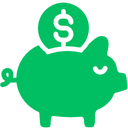
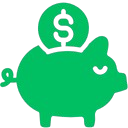
feat(home): enhance idle and loading states with animations and improved layout feat(login): update text to Bulgarian for better localization refactor(product-recommendation): adjust card width for responsive design chore(images): update icon128 and icon48 images

diff --git a/src/app/home/home.component.html b/src/app/home/home.component.html
@@ -1,21 +1,48 @@
-<div class="space-y-4">
-  <div *ngIf="stage === 'idle'" class="space-y-4">
-    <h2 class="text-lg font-semibold text-gray-700">Izgodno.bg</h2>
-    <p class="text-sm text-gray-600">Увери се, че си на страницата на продукт и натисни бутона по-долу, за да намерим най-добрите оферти!</p>
-    <button class="btn btn-primary w-full" (click)="startRecommendationFlow()">Намери оферти</button>
-  </div>
+<!-- ✅ IDLE & LOADING - Centered Layout -->
+<div *ngIf="stage === 'idle' || stage === 'loading'" class="w-full h-full flex items-center justify-center px-4 py-4">
+  <div class="space-y-4 w-full max-w-sm">
 
-  <div *ngIf="stage === 'loading'" class="flex flex-col items-center space-y-2">
-    <span class="loading loading-spinner loading-lg text-primary"></span>
-    <div class="text-sm text-center text-gray-600">
-      <p>Търсим най-добрите оферти...</p>
-      <p>Почти готово...</p>
+    <!-- IDLE STATE -->
+    <div *ngIf="stage === 'idle'" class="card shadow-lg bg-base-100 p-6 space-y-4 animate-fade-in text-center">
+      <div class="flex justify-center">
+        <img src="images/icon128.png" alt="Izgodno Logo" class="w-20 h-20 mb-2 rounded-xl shadow-md" />
+      </div>
+      <h2 class="text-xl font-bold text-primary">Izgodno.bg</h2>
+      <p class="text-sm text-gray-600">
+        Увери се, че си на страницата на продукт и натисни бутона по-долу, за да намерим най-добрите оферти!
+      </p>
+      <button class="btn btn-primary w-full gap-2" (click)="startRecommendationFlow()">
+        <svg xmlns="http://www.w3.org/2000/svg" class="h-5 w-5" fill="none"
+             viewBox="0 0 24 24" stroke="currentColor" stroke-width="2">
+          <path stroke-linecap="round" stroke-linejoin="round"
+                d="M21 21l-4.35-4.35M17 11a6 6 0 11-12 0 6 6 0 0112 0z" />
+        </svg>
+        Намери оферти
+      </button>
+      <ul class="text-xs text-gray-500 list-disc list-inside mt-2 text-left">
+        <li>Поддържа над 40+ онлайн магазина за телефони и парфюми</li>
+      </ul>
     </div>
-  </div>
 
-  <app-product-recommendation
-    *ngIf="stage === 'done'"
-    [product]="product!"
-    [offers]="offers">
-  </app-product-recommendation>
+    <!-- LOADING STATE -->
+    <div *ngIf="stage === 'loading'" class="flex flex-col items-center space-y-2 animate-pulse text-center">
+      <span class="loading loading-spinner loading-lg text-primary"></span>
+      <div class="text-sm text-gray-600">
+        <p>Търсим най-добрите оферти...</p>
+        <p class="text-primary font-medium">Почти готово...</p>
+      </div>
+    </div>
+
+  </div>
+</div>
+
+<!-- ✅ DONE - Fullscreen Layout Centered and Responsive -->
+<div *ngIf="stage === 'done'" class="w-full h-full overflow-y-auto">
+  <div class="w-full max-w-md mx-auto px-4 pt-4">
+    <app-product-recommendation
+      class="w-full max-w-md"
+      [product]="product!"
+      [offers]="offers">
+    </app-product-recommendation>
+  </div>
 </div>

diff --git a/src/app/login/login.component.html b/src/app/login/login.component.html
@@ -1,15 +1,15 @@
 <div class="flex flex-col items-center justify-center text-center pb-4 w-full h-full">
   <img src="images/icon128.png" alt="Izgodno Logo" class="w-20 h-20 mb-4" />
-  <h1 class="text-xl font-semibold mb-2">Welcome to <span class="text-primary">Izgodno.bg</span></h1>
+  <h1 class="text-xl font-semibold mb-2">Добре дошли в <span class="text-primary">Izgodno.bg</span></h1>
   
   <p class="text-sm text-gray-500 mt-2 mb-1">
-    Find the best prices for your favorite products.
+    Намери най-ниските цени на любимите ти продукти.
   </p>
 
   <button (click)="signIn()"
           class="btn btn-outline btn-wide gap-2 shadow-md hover:shadow-lg transition-all duration-300">
     <img src="assets/images/icons8-google.svg" alt="Google" class="w-5 h-5" />
-    Sign in with Google
+    Вписаване с Google
   </button>
 
   <p *ngIf="errorMessage" class="text-error mt-4 text-sm">{{ errorMessage }}</p>

diff --git a/src/app/app.component.scss b/src/app/app.component.scss
@@ -1,7 +1,26 @@
+@keyframes bounce-once {
+  0%, 100% { transform: translateY(0); }
+  50% { transform: translateY(-6px); }
+}
+
 :host {
   display: block;
   width: 360px; // ✅ adjust as needed
   height: 580px; // ✅ give it enough vertical space
   padding: 1rem;
   overflow: auto;
+  background: transparent;
+
+  .animate-bounce-once {
+    animation: bounce-once 0.5s ease-in-out 1;
+  }
+
+  .animate-fade-in {
+    animation: fadeIn 0.4s ease-in;
+  }
+
+  @keyframes fadeIn {
+    from { opacity: 0; transform: translateY(10px); }
+    to { opacity: 1; transform: translateY(0); }
+  }
 }

diff --git a/src/app/product-recommendation/product-recommendation.component.html b/src/app/product-recommendation/product-recommendation.component.html
@@ -1,4 +1,4 @@
-<div class="card bg-base-100 shadow-lg w-80 p-4 space-y-4">
+<div class="card bg-base-100 shadow-lg w-full max-w-md p-4 space-y-4 mx-auto">
     <!-- Brand (top-left) -->
     <h1 class="text-sm font-semibold text-gray-700">
       Izgodno.bg
